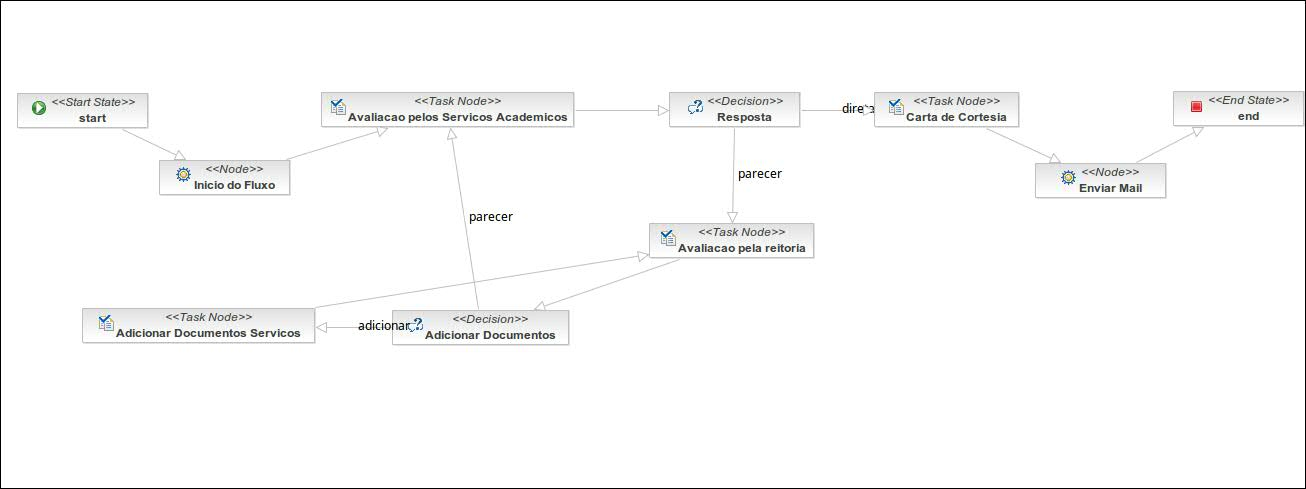
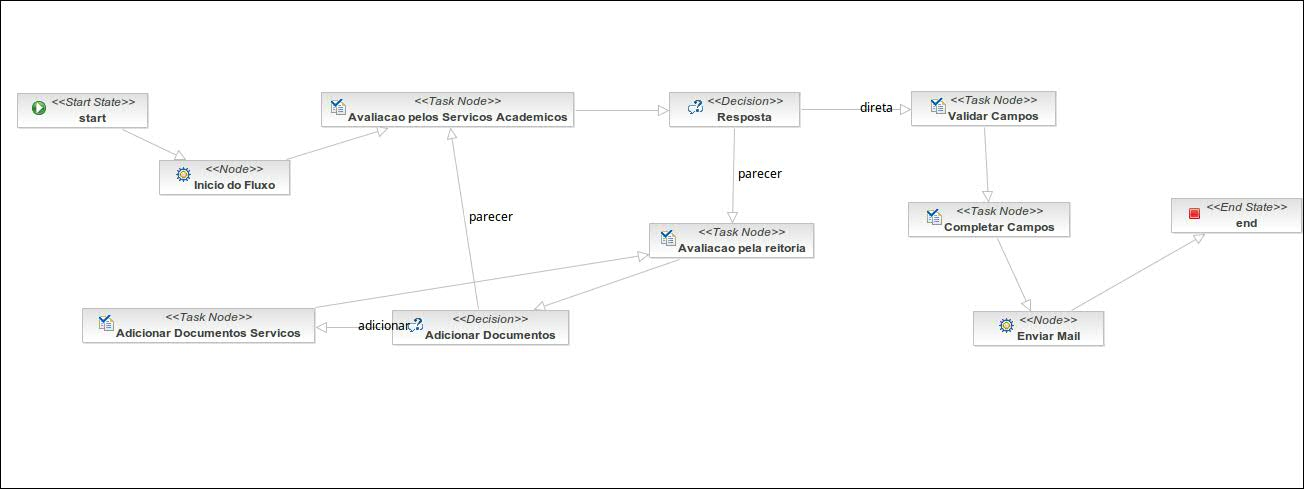
Error mail

diff --git a/src/main/java/com/openkm/workflow/action/Action2.java b/src/main/java/com/openkm/workflow/action/Action2.java
@@ -1,0 +1,51 @@
+package com.openkm.workflow.action;
+
+import java.text.SimpleDateFormat;
+import java.util.Calendar;
+
+import org.jbpm.graph.def.ActionHandler;
+import org.jbpm.graph.exe.ExecutionContext;
+
+import com.openkm.api.OKMDocument;
+import com.openkm.api.OKMFolder;
+import com.openkm.bean.form.Input;
+import com.openkm.bean.form.TextArea;
+import com.openkm.bean.Document;
+
+import com.openkm.util.MailUtils;
+
+import javax.accessibility.*;
+
+public class Action2 implements ActionHandler {
+	private static final long serialVersionUID = 1L;
+
+	@Override
+	public void execute(ExecutionContext executionContext) throws Exception {
+		
+		String decision = (String) executionContext.getContextInstance().getVariable("Resposta");
+		
+		Input assunto = (Input) executionContext.getContextInstance().getVariable("assunto");
+		
+		TextArea info = (TextArea) executionContext.getContextInstance().getVariable("info");
+		
+		String uuid = (String) executionContext.getContextInstance().getVariable("uuid");
+		String path = OKMFolder.getInstance().getPath(null, uuid);
+		String[] temp = path.split("/");
+		String number = temp[temp.length - 1];
+		
+		Document doc = OKMDocument.getInstance().getProperties(null, uuid);
+		Calendar temp1 = doc.getCreated();
+		
+		SimpleDateFormat format1 = new SimpleDateFormat("yyyy-MM-dd");
+		String date = format1.format(temp1);
+		
+		String text = "Na sequência do requiremento " + number + " do dia " + date + " relativo ao assunto: " + assunto.getValue() + ", vimos pelo presente informar que sobre o mesmo recaiu o despacho cujo teor a seguir se transcreve " + decision + ". " + info.getValue() ;
+		
+		try{
+			MailUtils.sendMessage("test", "test", "test");
+		} catch (Exception e) {
+			e.printStackTrace();
+		}
+		
+	}
+}
